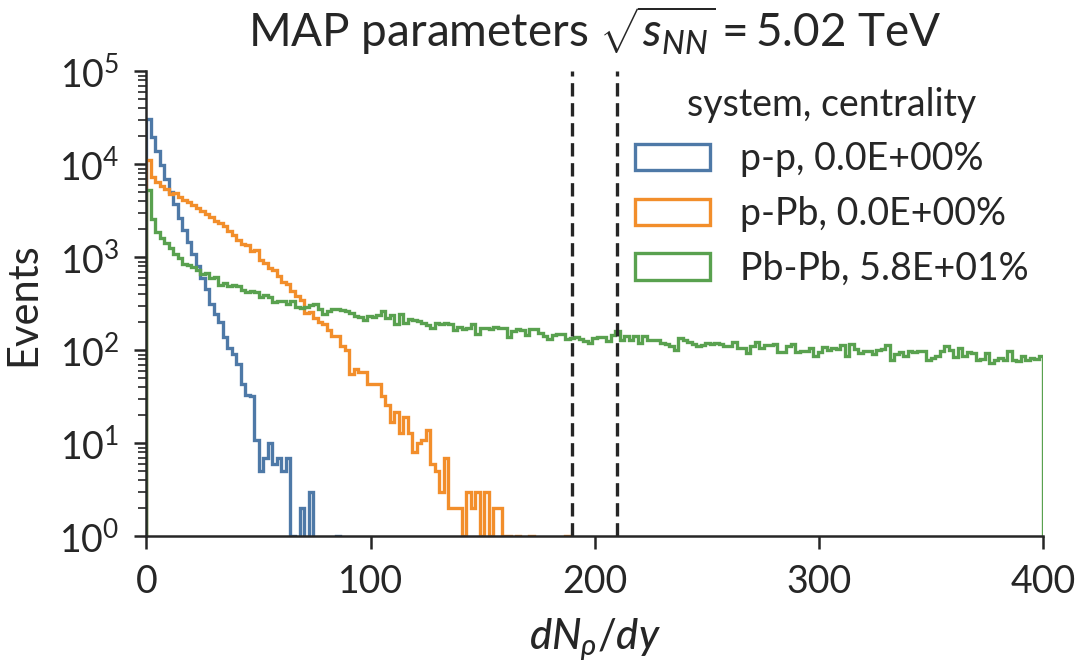
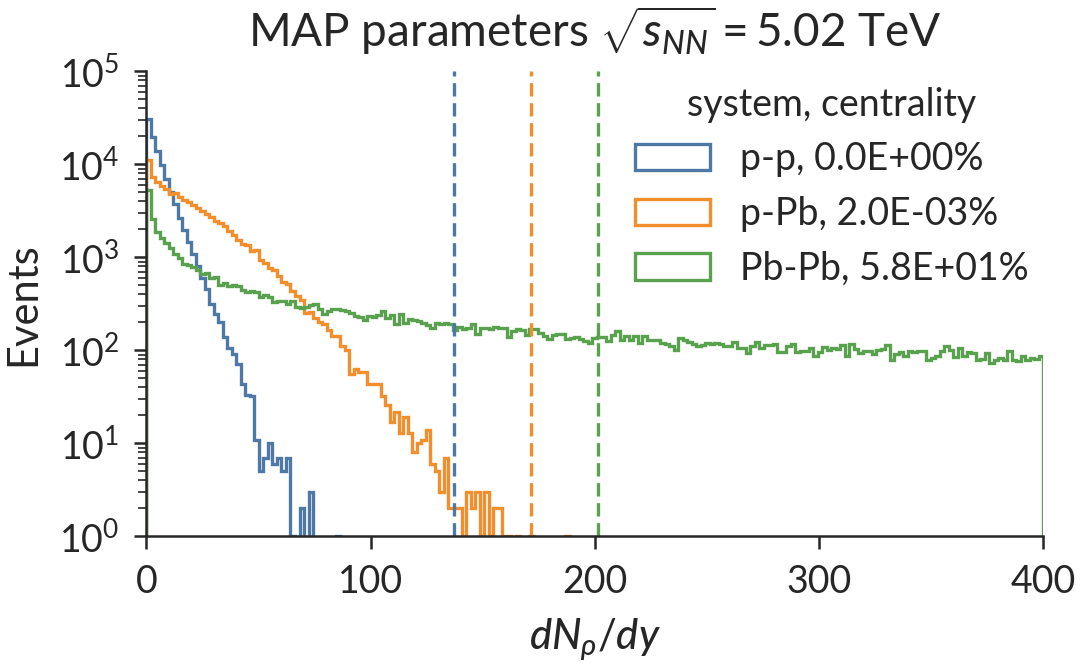
Update README

diff --git a/README.md b/README.md
@@ -25,25 +25,23 @@ to regenerate the figures. This could take some time. The first time the make-pl
 The following documentation describes each of the figures in the `plots` directory.
 
 ### Multiplicity distribution and event selection
-<img src="plots/mult_dist.png" width="60%">
+<img src="plots/mult_dist.png" width="70%">
 
-I start by running 10<sup>5</sup> minimum bias p-p, p-Pb and Pb-Pb trento events using _maximum a posteriori_ parameters determined from a combined fit to p-Pb and Pb-Pb yields, mean p<sub>T</sub>, and flows at √s=5.02 TeV (Quark Matter 2018 talk).
+I start by running 10<sup>6</sup> minimum bias p-p, p-Pb and Pb-Pb trento events using _maximum a posteriori_ parameters determined from a combined fit to p-Pb and Pb-Pb yields, mean p<sub>T</sub>, and flows at √s=5.02 TeV (Quark Matter 2018 talk).
 
-Before free-streaming, the initial condition profiles represent a density of "partons" at time τ=0<sup>+</sup>, with integrated densities that are roughly proportional to each event's final charged particle density. The goal of this work is to study p-p, p-Pb and Pb-Pb events with the same charged particle density, so I generate event-averaged initial condition profiles with the same integrated parton densities dN<sub>ρ</sub>/dy = constant. 
+Before free-streaming, the initial condition profiles represent a density of "partons" at time τ=0<sup>+</sup>, with integrated densities that are roughly proportional to each event's final charged particle density. The goal of this work is to study p-p, p-Pb and Pb-Pb events with the same charged particle density, so I determine bins on dN<sub>ρ</sub>/dη for each collision system which yield <dN<sub>ch</sub>/dη> = 100.
 
-I find empirically that 95 < dN<sub>ρ</sub>/dy < 105 selects a reasonable intersection of the p-p, p-Pb and Pb-Pb multiplicity distributions at 5.02 TeV, where hydrodynamic approximations are likely to remain valid. These initial condition events correspond to dN<sub>ch</sub>/dη ≈ 60 particles at midrapidity.
-
-This multiplicity/centrality cut is illustrated by black vertical lines in the above figure, superimposed on the p-p, p-Pb and Pb-Pb minimum bias multiplicity distributions at 5.02 TeV.
-Note that _zero_ p-p events fall within this trigger due to the much smaller number of particles produced in p-p collisions. To remedy this issue, I rescale the p-p multiplicity distribution by an artificial scaling factor to increase the acceptance of my p-p multiplicity trigger. Since p-p events have roughly constant eccentricity as a function of charged particle multiplicity, this ad hoc rescaling factor is unlikely to degrade the predictions of the model.
+The middle of this multiplicity/centrality bin is illustrated by the colored vertical lines (one for each system) in the figure above, superimposed on the p-p, p-Pb and Pb-Pb minimum bias multiplicity distributions at 5.02 TeV.
+Note that _zero_ p-p events fall within this trigger due to the much smaller number of particles produced in p-p collisions. Similarly, very few p-Pb events falls within the trigger. To remedy this issue, I rescale the p-p and p-Pb multiplicity distribution by an artificial scaling factor to increase the acceptance of the trigger. Since p-p and p-Pb events have roughly constant eccentricity as a function of charged particle multiplicity, this ad hoc rescaling factor is unlikely to degrade the predictions of the model.
 
 ### Single-shot events
 <img src="plots/single_shot_events.png" width="100%">
 
-Using this initial condition multiplicity cut, I then run a large number of initial condition events and yield events which fall within the specified trigger. The events are shifted into their center of mass frame and rotated so that the principal axis of the second eccentricity harmonic is aligned with the x-axis. The events are then averaged to generate a "single shot" initial condition profile.
+Using this initial condition multiplicity cut, I then run a large number of initial condition events and yield events which fall within the specified trigger. The events are shifted into their center of mass frame and rotated so that the minor (short) axis of the second eccentricity harmonic is aligned with the x-axis. The events are then averaged to generate a "single shot" initial condition profile.
 
-The figure above shows the event-averaged profiles of dN<sub>ρ</sub>/(d<sup>2</sup>xdη) for each collision system. The initial parton densities dN<sub>ρ</sub>/dy are annotated on each subpanel. The ellipticity (almond shape) of each event is clearly visible. Interestingly, the profiles appear roughly self-similar up to and overall scaling factor. 
+The figure above shows the event-averaged profiles of dN<sub>ρ</sub>/(d<sup>2</sup>xdη) for each collision system. The initial parton densities dN<sub>ρ</sub>/dη are annotated on each subpanel. The ellipticity (almond shape) of each event is clearly visible.
 
 ### Isotherms
 <img src="plots/isotherms.png" width="100%">
 
-This figure shows the isotherms for p-p, p-Pb and Pb-Pb events at T=100, 155 and 200 MeV for the single-shot initial condition events discussed previously. The colored dots in the figure are points (r, τ) on the boost-invariant isotherm hypersurface, where r<sup>2</sup> = x<sup>2</sup> + y<sup>2</sup>. The isotherms are regions (bands) and not lines since the initial profiles are deformed. The spurious points in the T=100 MeV isotherm plot are artifacts from the event averaging procedure and would disappear in the limit of infinite statistics.
+This figure shows the isotherms for p-p, p-Pb and Pb-Pb events at T=100, 155 and 200 MeV for the single-shot initial condition events discussed previously for y=0 fm (top row) and x=0 fm (bottom row). The colored dots in the figure are points (r, τ) on the boost-invariant isotherm hypersurface, where r<sup>2</sup> = x<sup>2</sup> + y<sup>2</sup>. The isotherms along x and along y are slightly different since the initial profiles are deformed. The slight wiggle in the T=100 MeV isotherm of the bottom-middle panel is an artifact from the event averaging procedure and would disappear in the limit of infinite statistics.
